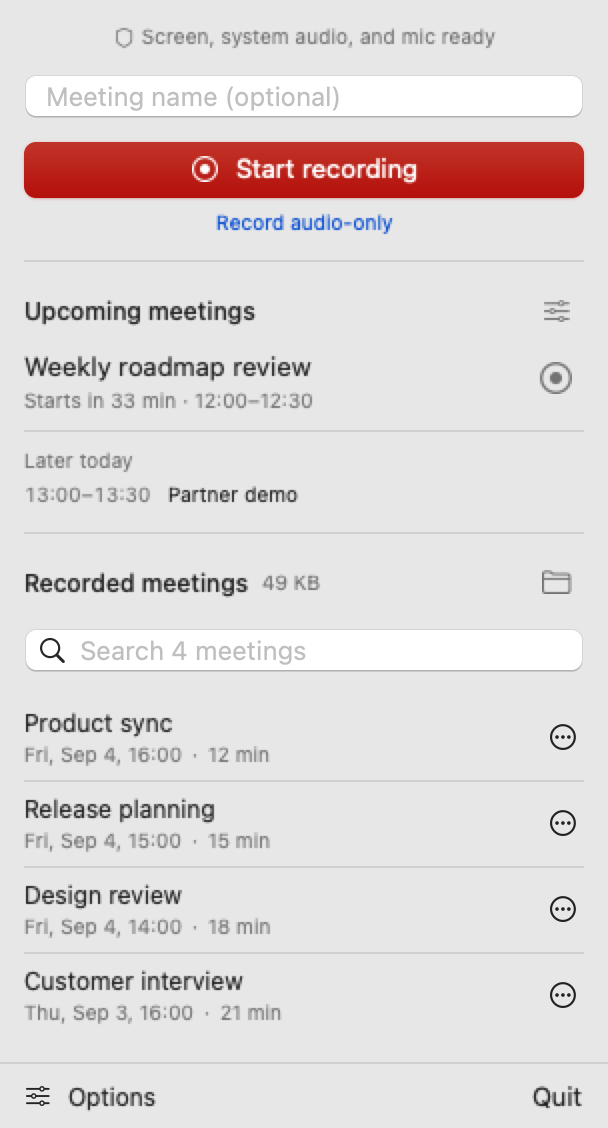
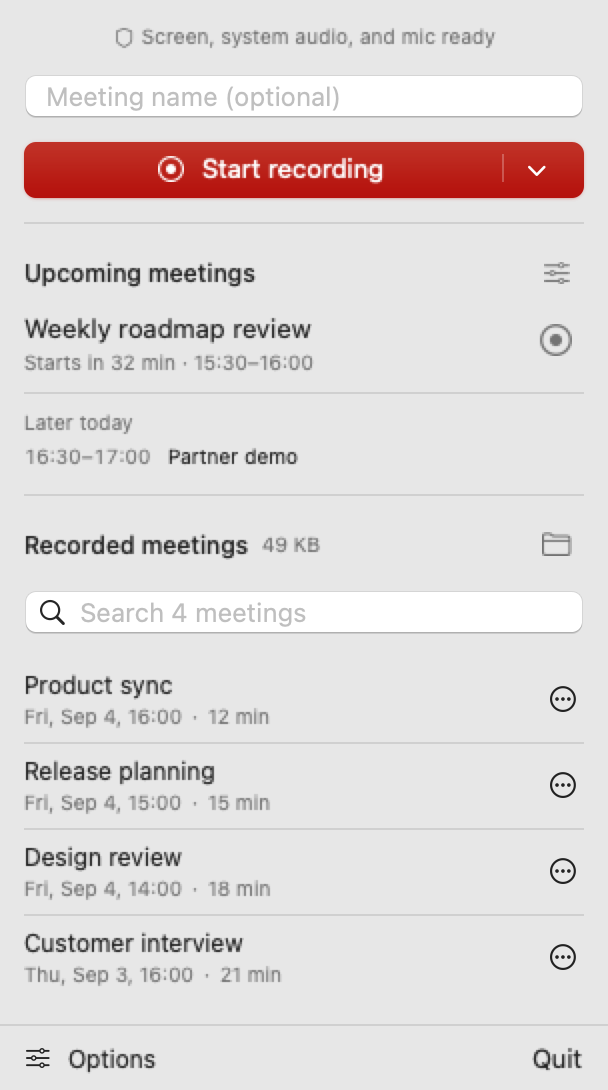
Move audio-only capture into a split recording button

diff --git a/Sources/BetterMeetingApp/MenuBarControlView.swift b/Sources/BetterMeetingApp/MenuBarControlView.swift
@@ -180,9 +180,8 @@ struct MenuBarControlView: View {
                 .textFieldStyle(.roundedBorder)
                 .onSubmit { startFromMenu() }
                 .help("Press Return to start recording")
-            VStack(spacing: 6) {
-                StartRecordingButton(calendar: model.calendar, meetingTitle: model.meetingTitle, start: { startFromMenu() })
-                AudioOnlyRecordingButton(start: { startFromMenu(mode: .audioOnly) })
+            StartRecordingButton(calendar: model.calendar, meetingTitle: model.meetingTitle) { mode in
+                startFromMenu(mode: mode)
             }
         }
     }
@@ -563,40 +562,30 @@ struct MenuBarControlView: View {
     }
 }
 
-/// A compact neutral text action: only the text gains an underline, never a full-width box.
-private struct AudioOnlyRecordingButton: View {
-    let start: () -> Void
-    @Environment(\.isEnabled) private var isEnabled
-    @State private var hovering = false
-
-    var body: some View {
-        Button(action: start) {
-            Text("Record audio-only")
-                .underline(hovering && isEnabled)
-                .padding(.horizontal, 6)
-                .padding(.vertical, 3)
-                .contentShape(Rectangle())
-        }
-        .buttonStyle(.plain)
-        .font(.caption)
-        .foregroundStyle(.secondary)
-        .onHover { hovering = $0 }
-        .onDisappear { hovering = false }
-        // Center the link without turning the empty row into a hover or click target.
-        .frame(maxWidth: .infinity)
-        .help("Record system audio and microphone without saving screen video")
-    }
-}
-
-/// The menu's Start button. When a calendar meeting is under way or about to start and no other
+/// The menu's split Start button. Its primary action always captures screen and audio;
+/// the native arrow menu starts audio-only without changing the next recording's default.
+/// When a calendar meeting is under way or about to start and no other
 /// name was typed, it records that meeting, so the menu never offers two competing record buttons.
 private struct StartRecordingButton: View {
     @ObservedObject var calendar: CalendarIntegration
     let meetingTitle: String
-    let start: () -> Void
+    let start: (CaptureMode) -> Void
     @Environment(\.isEnabled) private var isEnabled
     @Environment(\.accessibilityReduceMotion) private var reduceMotion
     @State private var hovering = false
+
+    // Native menus otherwise retint SF Symbols to black in light appearance.
+    // Render a non-template white image for the coral button in either appearance.
+    private static let menuChevron: NSImage = {
+        let configuration = NSImage.SymbolConfiguration(pointSize: 10, weight: .semibold)
+            .applying(NSImage.SymbolConfiguration(paletteColors: [.white]))
+        guard let symbol = NSImage(systemSymbolName: "chevron.down", accessibilityDescription: nil)?
+            .withSymbolConfiguration(configuration) else { return NSImage() }
+        return NSImage(size: symbol.size, flipped: false) { rect in
+            symbol.draw(in: rect)
+            return true
+        }
+    }()
 
     static func imminentEvent(in calendar: CalendarIntegration, title: String, at now: Date) -> CalendarEvent? {
         guard title.trimmingCharacters(in: .whitespacesAndNewlines).isEmpty,
@@ -610,12 +599,21 @@ private struct StartRecordingButton: View {
     var body: some View {
         TimelineView(.periodic(from: .now, by: 30)) { context in
             let event = Self.imminentEvent(in: calendar, title: meetingTitle, at: context.date)
-            Button(action: start) {
-                Label {
-                    Text(event.map { "Record “\($0.title)”" } ?? "Start recording")
-                        .lineLimit(1)
-                } icon: {
-                    Image(systemName: "record.circle")
+            Button { start(.screen) } label: {
+                HStack(spacing: 0) {
+                    Label {
+                        Text(event.map { "Record “\($0.title)”" } ?? "Start recording")
+                            .lineLimit(1)
+                    } icon: {
+                        Image(systemName: "record.circle")
+                    }
+                    .frame(maxWidth: .infinity)
+                    Color.white.opacity(0.25)
+                        .frame(width: 1, height: 14)
+                        .accessibilityHidden(true)
+                    // Reserve the native menu's hit area without nesting it in this button.
+                    Color.clear.frame(width: 32, height: 14)
+                        .accessibilityHidden(true)
                 }
                 .frame(maxWidth: .infinity)
             }
@@ -625,9 +623,26 @@ private struct StartRecordingButton: View {
             .animation(reduceMotion ? nil : .easeOut(duration: 0.12), value: hovering && isEnabled)
             .onHover { hovering = $0 }
             .onDisappear { hovering = false }
-            .help(event == nil ? "Start recording (Return in the name field)"
-                : "Records with this meeting’s calendar details. Type a name above to record something else.")
+            .help(event == nil ? "Record screen and audio. Use the arrow for audio-only."
+                : "Records with this meeting’s calendar details. Use the arrow for audio-only, or type a name above to record something else.")
             .accessibilityLabel(event.map { "Record \($0.title)" } ?? "Start recording")
+            .overlay(alignment: .trailing) {
+                // A sibling control: opening its menu must never trigger screen capture.
+                Menu {
+                    Button("Record audio-only") { start(.audioOnly) }
+                        .help("Record system audio and microphone without saving screen video")
+                } label: {
+                    Image(nsImage: Self.menuChevron)
+                        .renderingMode(.original)
+                        .frame(width: 32, height: 28)
+                        .contentShape(Rectangle())
+                }
+                .menuStyle(.borderlessButton)
+                .menuIndicator(.hidden)
+                .frame(width: 32, height: 28)
+                .help("Recording options")
+                .accessibilityLabel("Recording options")
+            }
         }
     }
 }

diff --git a/docs/calendar-data.md b/docs/calendar-data.md
@@ -37,7 +37,7 @@ The upcoming section lists today's remaining meetings. The first is shown in ful
 
 The menu-bar preview is the Options → Meetings toggle “Show next meeting in the menu bar” (`calendarMenuBarPreview`, default on, shown once calendar access is granted). Beside the icon it shows compact timing for the first meeting that is under way or starts within 60 minutes — `in 15m`, or `until 11:00` while it runs, in coral once started — without the title, because event names do not fit the menu bar. It appears only while idle: recording, processing, and the attention icon take precedence.
 
-Otherwise the large Start recording button is a manual action. There is no secondary full-size recording button or “Record another” menu.
+Otherwise the large Start recording button is a manual action. It is a native split button: the main area starts screen and audio capture, and the arrow offers Record audio-only. Both actions use the same typed title or imminent calendar occurrence. Choosing audio-only starts immediately and does not change the main action's screen-recording default. There is no separate audio-only button, secondary full-size recording button, or “Record another” menu.
 
 Start recording on an event requires a successful refresh and rechecks that exact occurrence after capture permissions, then saves a private, exclusively created `calendar.json` before starting capture. The file uses schemaVersion 1, an `event` snapshot and a `link` with method `started_from_calendar_event`, linkedAt and recordedAtAtLink. It contains title, scheduled times, calendar name, timezone, organizer and invitees (names/emails/response statuses), and sourceUpdatedAt. Search reads this format. A failed refresh keeps the last snapshot visible with a stale warning, but prevents event-based recording until refresh succeeds. Manual recording remains available. Calendar details are not descriptions, verified attendance, or speaker identities.
 

diff --git a/README.md b/README.md
@@ -77,8 +77,11 @@ updates. Uninstalling the app keeps saved meetings and downloaded models; see
 3. Open **Options** in the bottom-left corner to choose a display, microphone, and save folder.
    The app remembers these choices. Defaults are the main display, system
    microphone, and `~/Documents/Better Meetings`.
-4. Click **Start recording** for display video, or the smaller **Record audio-only**
-   link underneath for system audio and microphone without screen video.
+4. Click the main **Start recording** area for screen video and audio. To capture
+   system audio and microphone without screen video, open the arrow on the right
+   side of the button and choose **Record audio-only**. That starts immediately
+   using the same meeting name or calendar details. Screen recording remains the
+   default for the main action; choosing audio-only does not change it.
    Both modes require **Screen & System Audio Recording** and
    **Microphone** access. If access is blocked, click **Open System Settings** to enable it,
    then use **Restart Better Meeting** for screen access or **Try again** for microphone access.
